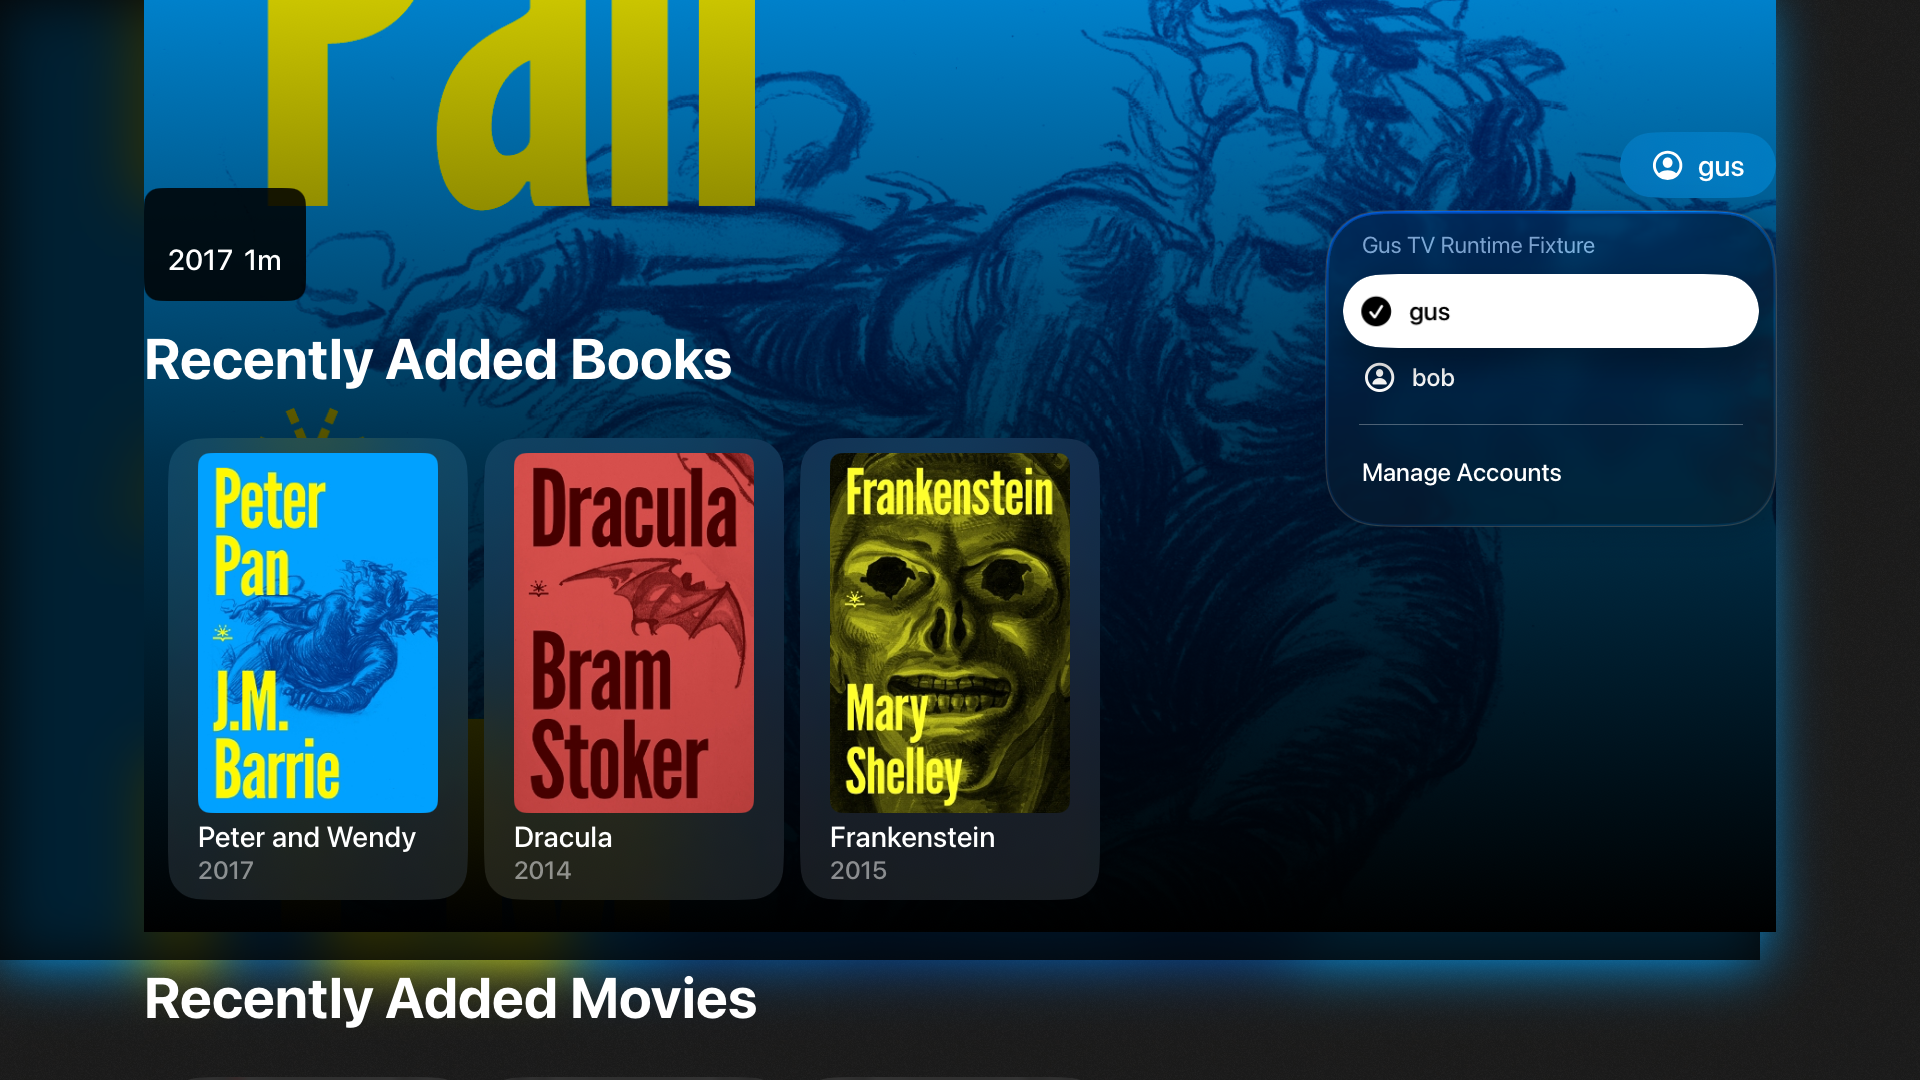
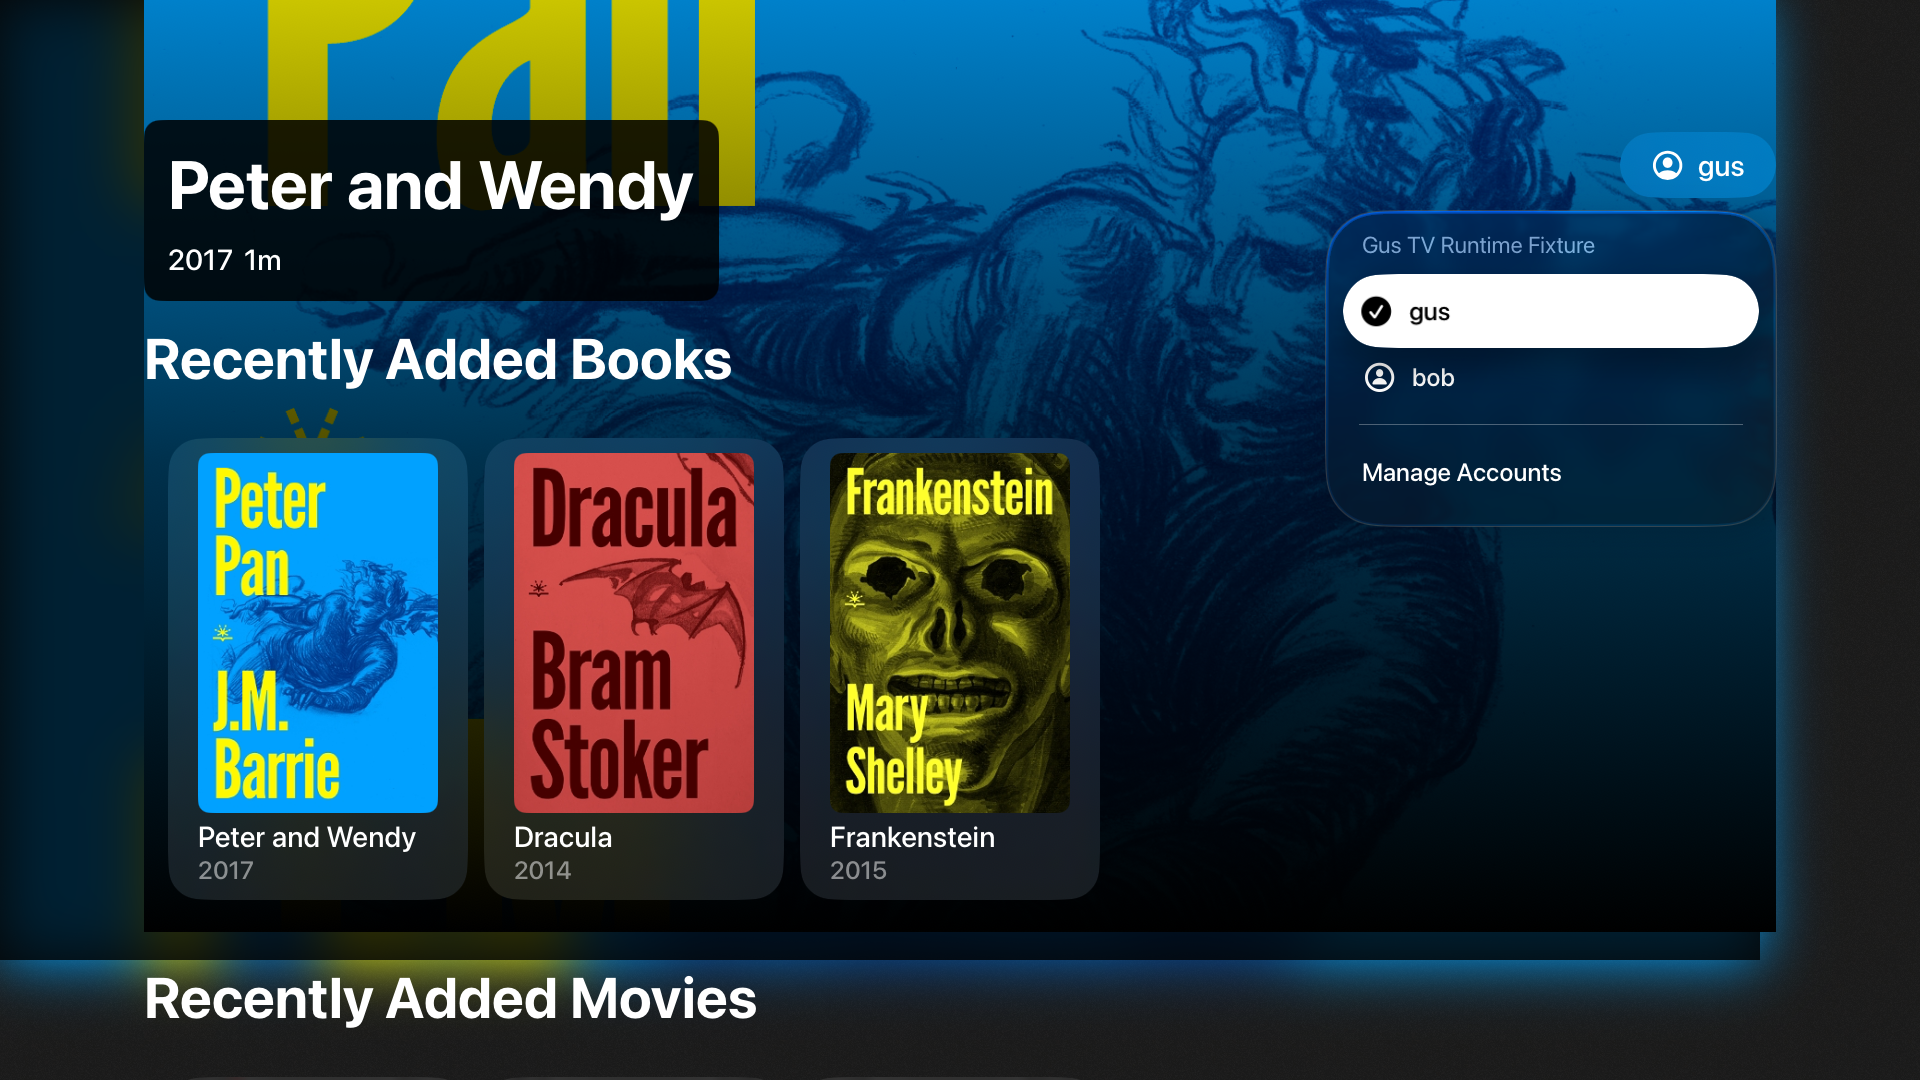
Fix blank tvOS hero titles and refresh runtime evidence

Changed region(s): [[0.0625, 0.0917, 0.375, 0.3056]]

diff --git a/Sources/Platform/TV/TVPresentation.swift b/Sources/Platform/TV/TVPresentation.swift
@@ -190,7 +190,7 @@ extension View {
             VStack(alignment: .leading, spacing: 24) {
                 if let entry = selected {
                     VStack(alignment: .leading, spacing: 16) {
-                        Text(entry.playlist?.name ?? entry.item?.seriesName ?? entry.item?.displayTitle ?? String(localized: "Next Up"))
+                        Text(entry.playlist?.name.trimmedNilIfEmpty ?? entry.item?.seriesName?.trimmedNilIfEmpty ?? entry.item?.displayTitle ?? String(localized: "Next Up"))
                             .font(.largeTitle.bold()).lineLimit(2)
                         if let item = entry.item {
                             if item.type == .episode {

diff --git a/Documentation/Reviews/2026-10-13-tvos-redesign/evidence/runtime/hero-title-ocr.swift b/Documentation/Reviews/2026-10-13-tvos-redesign/evidence/runtime/hero-title-ocr.swift
@@ -1,0 +1,12 @@
+import Foundation
+import Vision
+import ImageIO
+let url=URL(fileURLWithPath:CommandLine.arguments[1])
+let request=VNRecognizeTextRequest()
+request.recognitionLevel = .accurate
+try VNImageRequestHandler(url:url).perform([request])
+for observation in request.results ?? [] {
+ if let text=observation.topCandidates(1).first?.string {
+  print(String(format:"%.3f %.3f %.3f %.3f",observation.boundingBox.minX,observation.boundingBox.minY,observation.boundingBox.width,observation.boundingBox.height)+" "+text)
+ }
+}

diff --git a/Documentation/Reviews/2026-10-13-tvos-redesign/evidence/runtime/TVRuntimeAcceptance.swift b/Documentation/Reviews/2026-10-13-tvos-redesign/evidence/runtime/TVRuntimeAcceptance.swift
@@ -118,4 +118,10 @@ import XCTest
         }
     }
 
+    func testHomeHeroCapture() {
+        launch()
+        XCTAssertTrue(app.buttons.matching(NSPredicate(format:"label BEGINSWITH %@","Peter and Wendy")).firstMatch.waitForExistence(timeout:30))
+        capture("homeHero")
+    }
+
 }

diff --git a/Documentation/Reviews/2026-10-13-tvos-redesign/evidence/runtime/hero-title-check.py b/Documentation/Reviews/2026-10-13-tvos-redesign/evidence/runtime/hero-title-check.py
@@ -1,0 +1,13 @@
+import sys
+lines=[]
+for line in open(sys.argv[1]):
+ parts=line.strip().split(' ',4)
+ if len(parts)==5:
+  x,y,w,h=map(float,parts[:4]);lines.append((x,y,w,h,parts[4]))
+headings=[r for r in lines if r[4]=='Recently Added Books']
+assert headings,'First rail heading was not recognized'
+heading=max(headings,key=lambda r:r[1])
+titles=[r for r in lines if r[4]=='Peter and Wendy' and r[1]>heading[1]+heading[3]]
+assert titles,'Complete hero title is not visible above the first rail'
+assert max(r[1]+r[3] for r in titles)<0.97,'Hero title is above the TV safe top margin'
+print('PASS: full hero title visible above first rail, inside top margin')

diff --git a/Documentation/Reviews/2026-10-13-tvos-redesign/RUNTIME.md b/Documentation/Reviews/2026-10-13-tvos-redesign/RUNTIME.md
@@ -60,7 +60,7 @@ The automated accessibility audit covers **contrast, element detection and suffi
 
 The native Account menu opens, groups saved users, shows the active user and correctly routes Bob's missing credential to re-authentication. Repeated Back cancellation must leave Gus active. **Saved-token direct switching cannot be accepted in this unsigned lane.** Simulator logs record Keychain read/update **`-34018`** ([sanitized evidence](evidence/runtime/keychain-limitation.log)); no token fallback, re-signing, keychain-policy change or profile/security workaround was added. Actual same-server and different-server saved-token switching, rapid switches, outgoing playback teardown, token expiry and Apple TV system-profile isolation remain signed-device checks.
 
-When Books is the first recent section, the native initial-card focus can scroll the long fallback hero title above the viewport; [Home](evidence/runtime/home.png) records that real state. The movie and account flows remain usable, but long mixed-media hero composition needs further visual refinement rather than an assertion that every Home variant is polished.
+A later screenshot review confirmed that the missing Home book title was current in `68df54c`, rather than stale evidence. The initial cropping diagnosis was incorrect: Jellyfin 12.2 returns an empty `SeriesName` for books, and the nil-only title precedence selected that empty string instead of the book title. The TV hero now treats blank playlist/series titles as absent and falls back to the item display title. The sizing experiment was removed; the accepted hero typography, overview and layout are retained. The replacement [Home capture](evidence/runtime/homeHero.png) shows the complete “Peter and Wendy” title above the first rail. Apple Vision OCR verified its bounds inside the top margin; the same check failed on the prior capture. All four UI cases passed together after this repair, including the new Home capture and the previous accessibility, account and playback/focus cases ([excerpt](evidence/runtime/hero-ui-final.log)). This verifies the fixture variant, not every possible title/artwork/screen-size combination.
 
 The captured AVKit chrome displays an embedded 2024 date for the archival movie whose Jellyfin detail year is 1901. Gus currently supplies external title/description rather than an authoritative release-year override; metadata enrichment needs follow-up, and the screenshot must not be read as verified release metadata.
 
